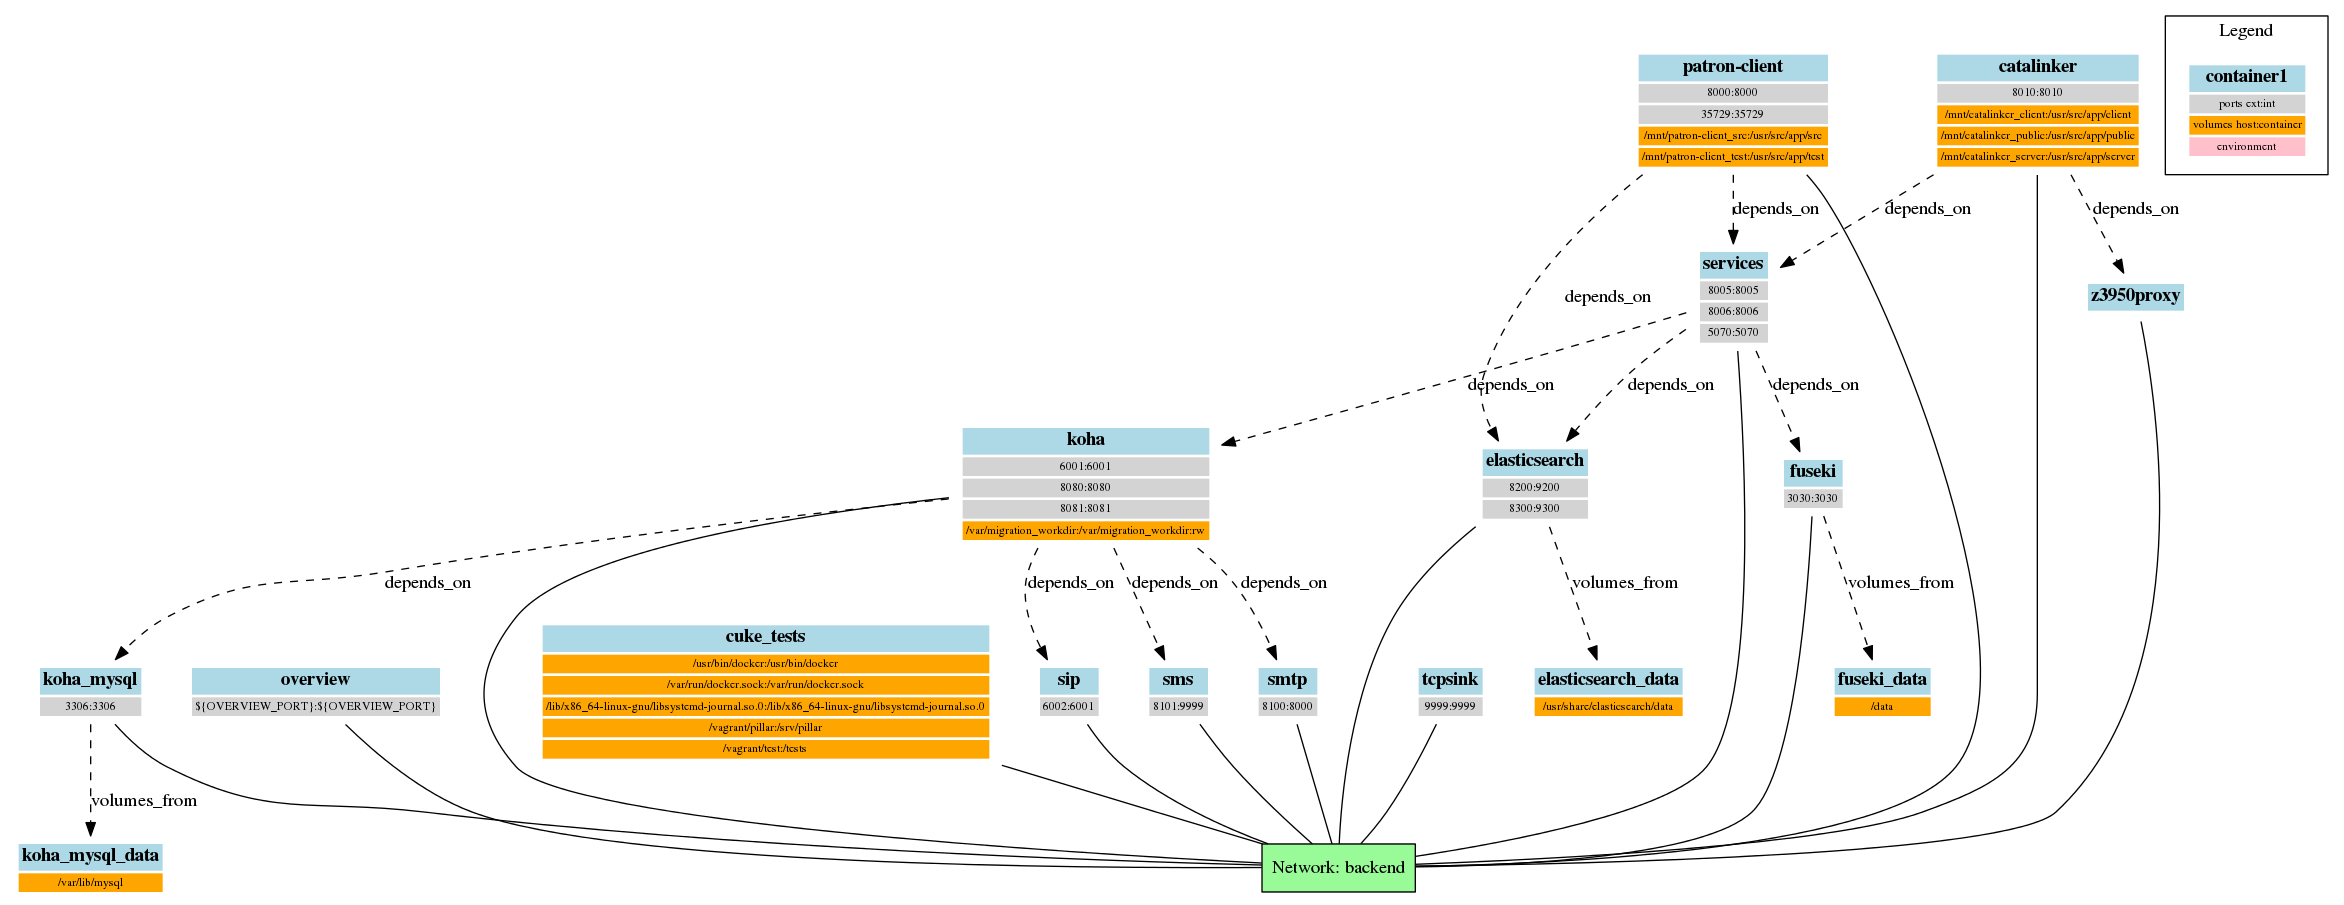
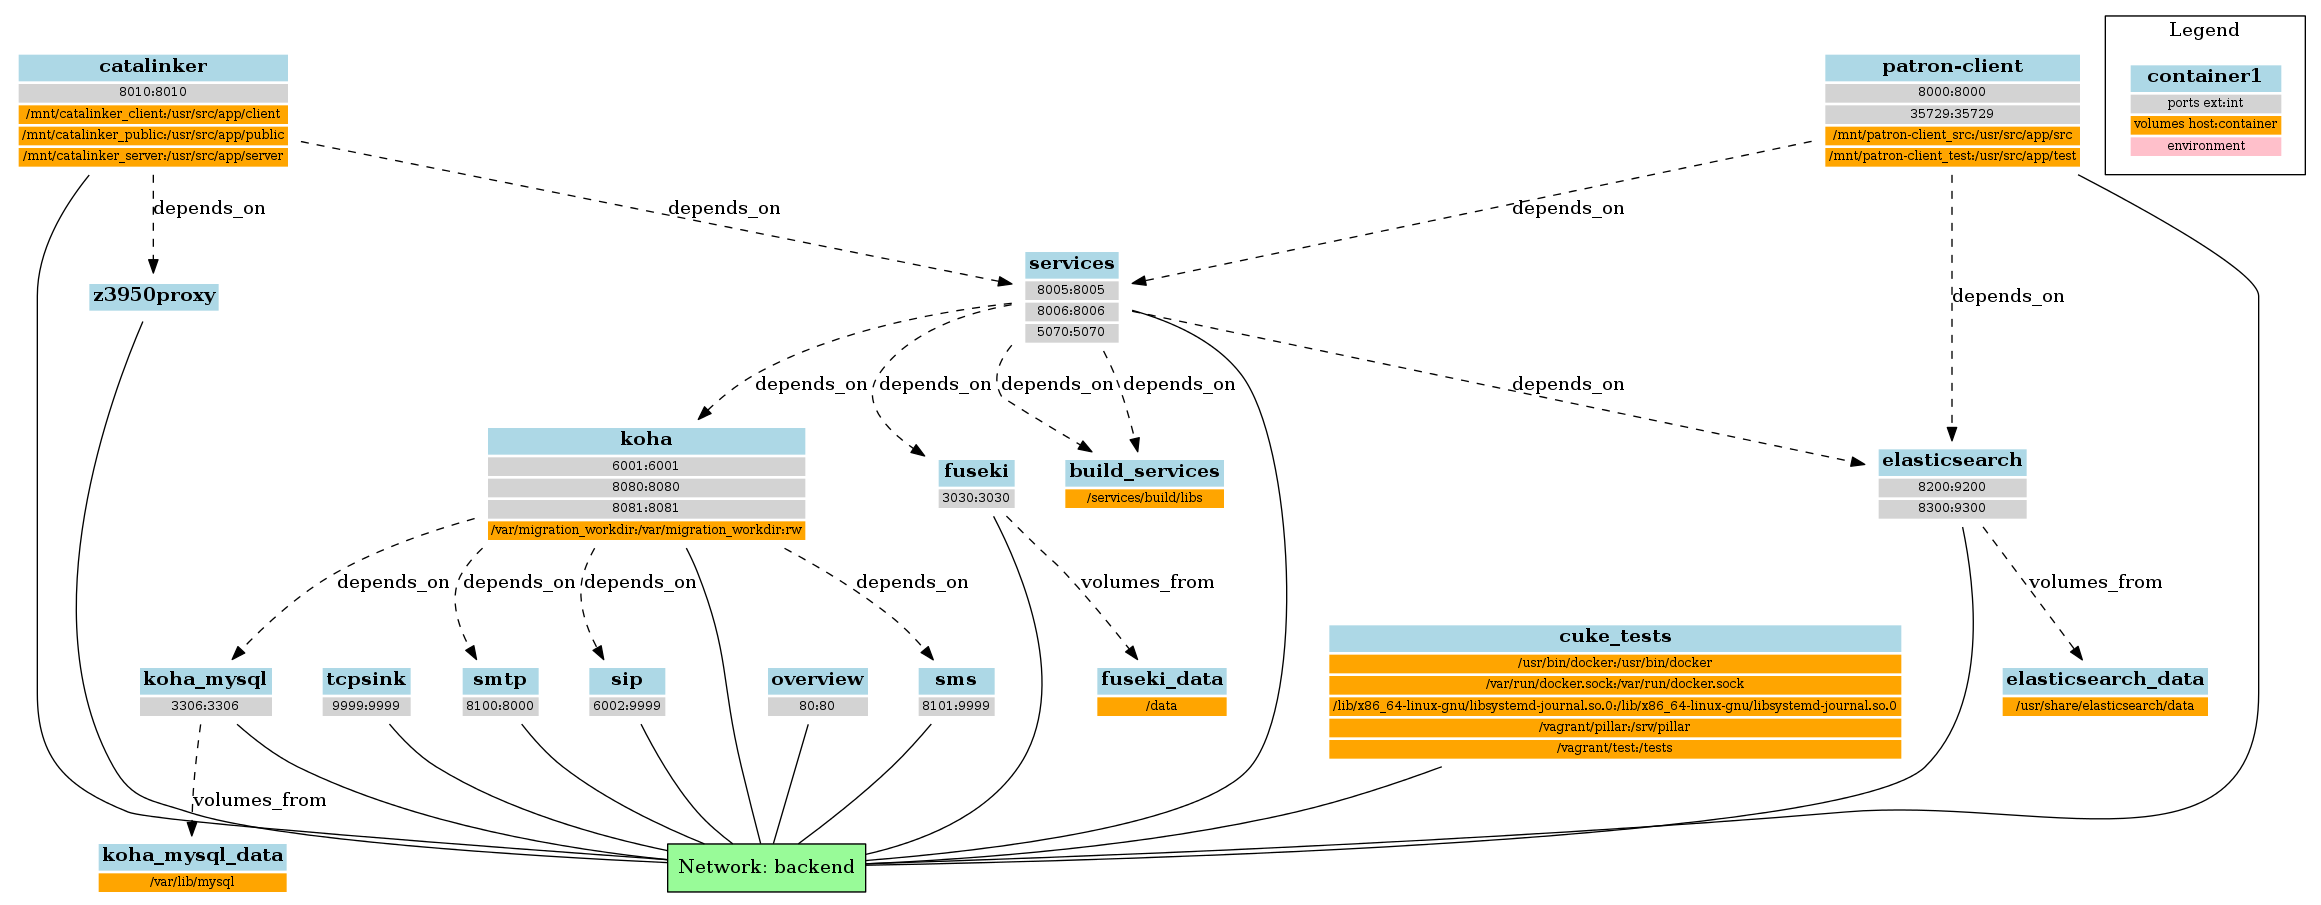
Build services in Docker

diff --git a/redef/services/README.md b/redef/services/README.md
@@ -1,8 +1,8 @@
 # Service layer/backend
 
-Services is the API layer for LS.ext. 
+Services is the API layer for LS.ext.
 
-It is packaged as an embedded Jetty application which provides REST services for integration between components 
+It is packaged as an embedded Jetty application which provides REST services for integration between components
 (including linked data and library holdings) creation and maintenance of resources for LS.Ext.
 
 ## Technologies
@@ -29,5 +29,4 @@ See [Makefile](Makefile).
 ## Trobleshooting
 
 Logs can be viewed via:
-* [Core ls.ext log viewer](https://github.com/digibib/ls.ext#monitoring-of-logs-with-devops-the-logserver)
 * Running `make log-f` in the Services catalogue
